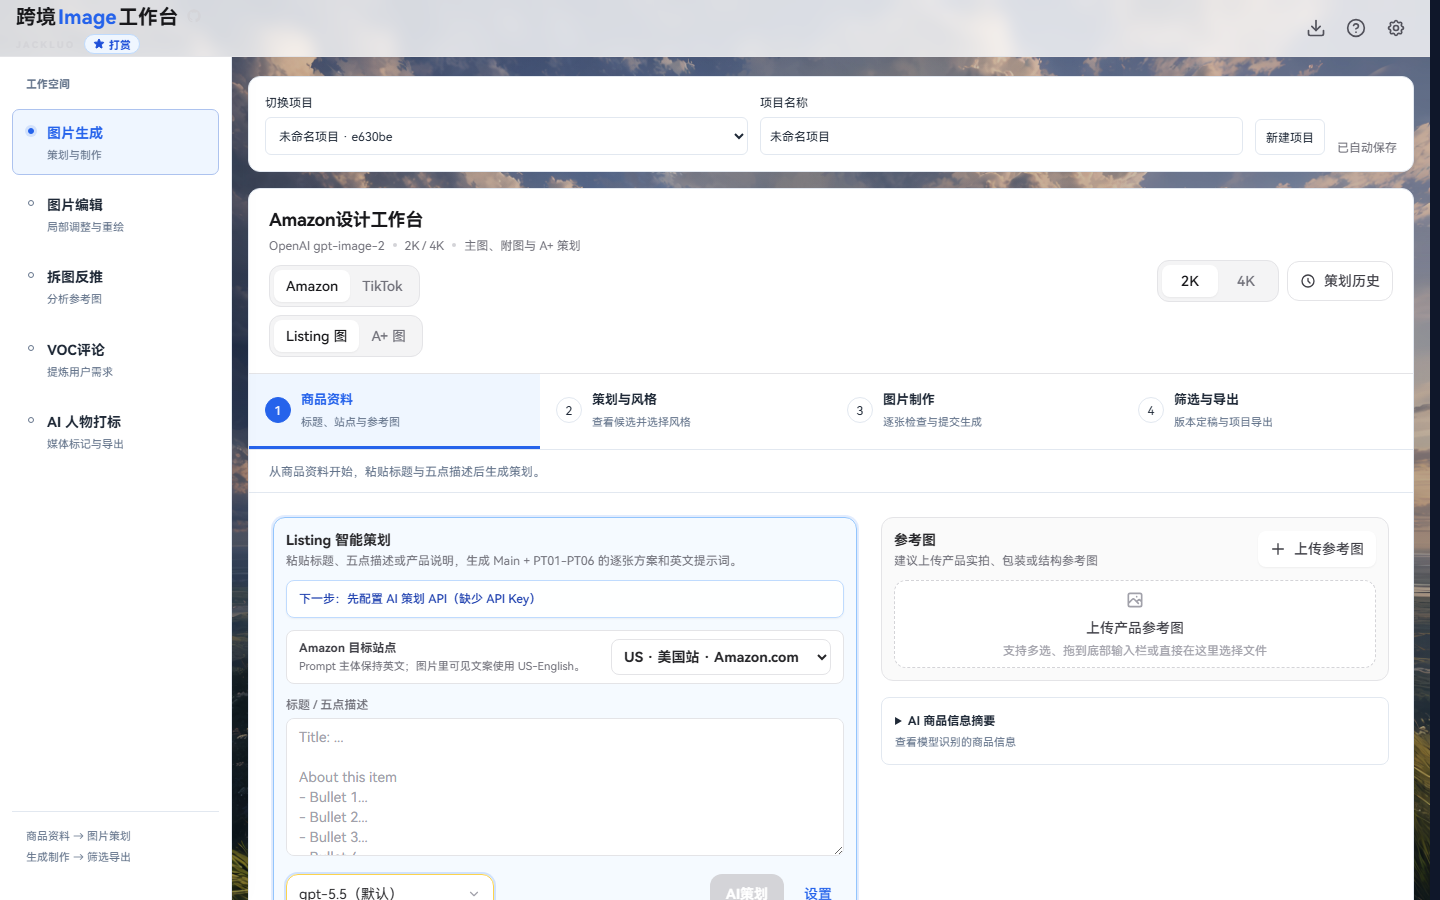
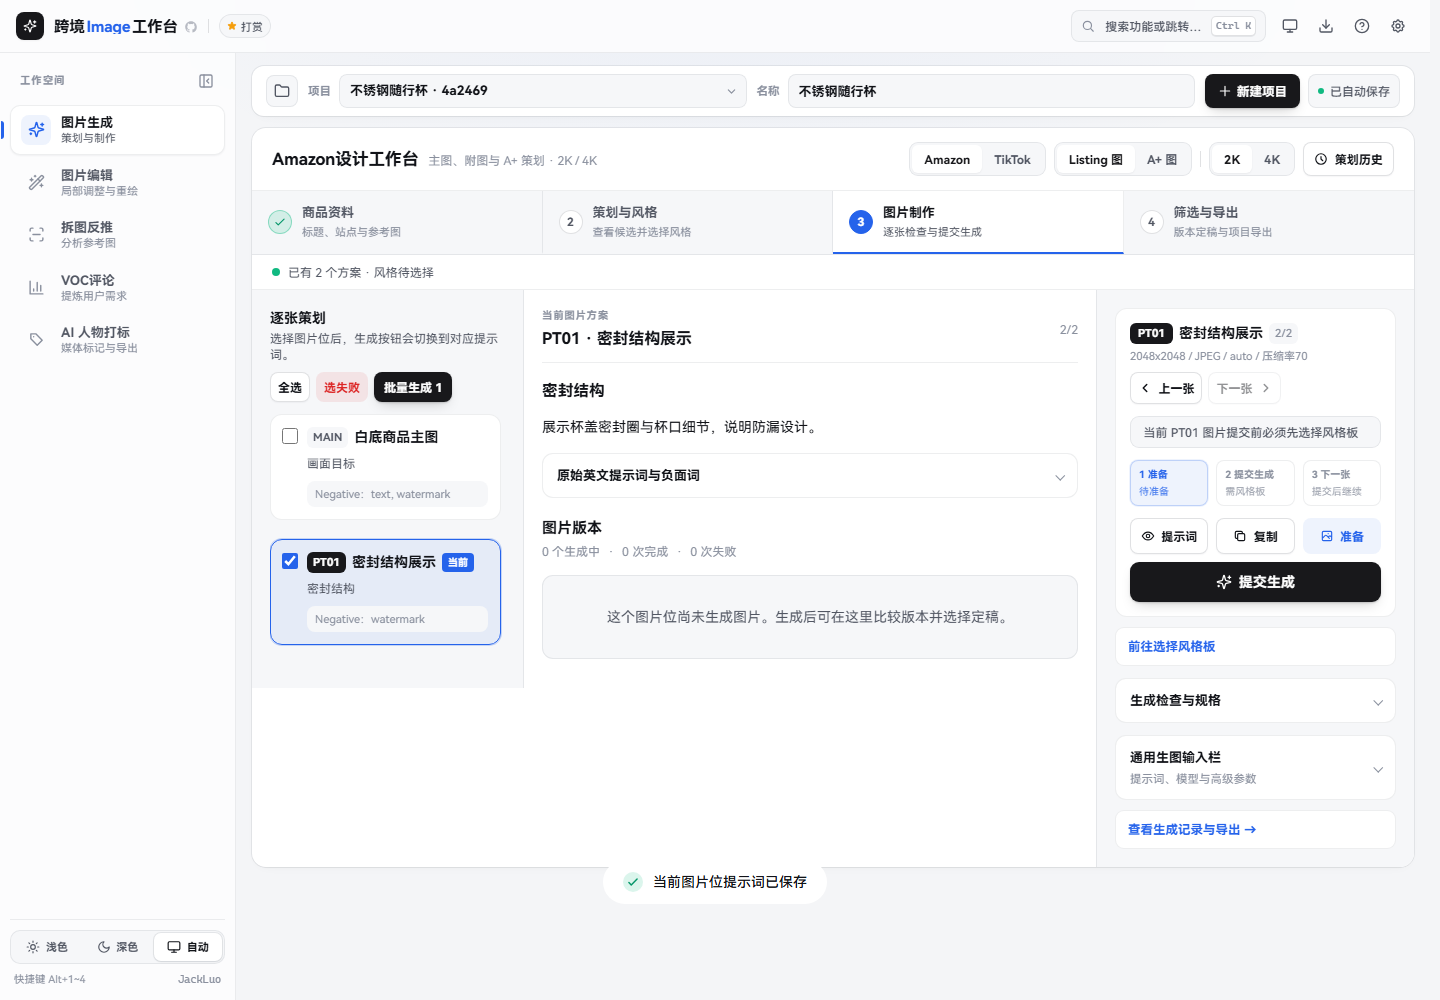
chore(release): 发布工作台 v2.0.2 并更新 README

diff --git a/README.md b/README.md
@@ -19,6 +19,8 @@
   ·
   <a href="https://github.com/china-luo/ImageStudioRemasteredVersion/releases/latest">下载 Windows 版</a>
   ·
+  <a href="https://github.com/china-luo/ImageStudioRemasteredVersion/actions/workflows/deploy-pages.yml">部署记录</a>
+  ·
   <a href="https://github.com/china-luo/ImageStudioRemasteredVersion/issues">提交 Issue</a>
 </p>
 
@@ -26,12 +28,20 @@
   <a href="https://github.com/china-luo/ImageStudioRemasteredVersion/actions/workflows/ci.yml"><img src="https://github.com/china-luo/ImageStudioRemasteredVersion/actions/workflows/ci.yml/badge.svg" alt="CI" /></a>
   <a href="https://github.com/china-luo/ImageStudioRemasteredVersion/releases/latest"><img src="https://img.shields.io/github/v/release/china-luo/ImageStudioRemasteredVersion?display_name=tag" alt="Latest release" /></a>
   <a href="./LICENSE"><img src="https://img.shields.io/github/license/china-luo/ImageStudioRemasteredVersion" alt="MIT License" /></a>
-  <img src="https://img.shields.io/badge/version-2.0.1-2563EB" alt="Version 2.0.1" />
+  <a href="https://github.com/china-luo/ImageStudioRemasteredVersion/actions/workflows/deploy-pages.yml"><img src="https://github.com/china-luo/ImageStudioRemasteredVersion/actions/workflows/deploy-pages.yml/badge.svg?branch=main" alt="GitHub Pages 部署" /></a>
   <img src="https://img.shields.io/badge/React-19-61DAFB?logo=react&logoColor=white" alt="React 19" />
   <img src="https://img.shields.io/badge/TypeScript-5-3178C6?logo=typescript&logoColor=white" alt="TypeScript 5" />
 </p>
 
-![跨境Image工作台 v2.0.1 工作台](./docs/images/workbench-overview.png)
+![跨境Image工作台：图片制作界面](./docs/images/workbench-overview.png)
+
+## v2.0.2 更新亮点
+
+- **更清晰的制作流程**：按「商品资料 → 策划与风格 → 图片制作 → 筛选与导出」推进，桌面与移动端均可使用；支持浅色、深色和跟随系统主题。
+- **快捷命令面板**：使用 `Ctrl+K`（macOS 为 `⌘K`）搜索功能；用 `Tab` 或方向键选择，按 `Enter` 执行。
+- **更稳的项目与生成恢复**：缺少参考图时仍可切换和保存项目，导入同一 ID 的图片后恢复引用；已取得远端 ID 的任务只续查，不重新提交生成。
+
+完整变化见 [更新日志](./CHANGELOG.md)。
 
 ## 这是什么
 
@@ -96,11 +106,13 @@
 
 从 [GitHub Releases](https://github.com/china-luo/ImageStudioRemasteredVersion/releases/latest) 下载最新 x64 安装包。桌面版通过 Electron 主进程使用受控网络通道，更适合日常生产、跨域受限接口和本地文件交付。
 
-当前最新版本：**v2.0.1**
+本次版本：[**v2.0.2**](https://github.com/china-luo/ImageStudioRemasteredVersion/releases/tag/v2.0.2)
 
 ### 静态部署
 
-仓库提供 GitHub Pages、Vercel Deploy Hook、Cloudflare Assets 和 Docker 构建配置。静态托管本身不提供通用上游 API 代理，部署后仍需要上游允许 CORS，或自行提供同源代理。
+推送到 `main` 后，[GitHub Pages 工作流](https://github.com/china-luo/ImageStudioRemasteredVersion/actions/workflows/deploy-pages.yml) 会运行测试、构建和部署。可在工作流运行记录查看进度，或在仓库首页右侧的 **Deployments** 栏查看 `github-pages` 环境。
+
+仓库也提供 Vercel Deploy Hook、Cloudflare Assets 和 Docker 构建配置。静态托管本身不提供通用上游 API 代理；上游接口需允许 CORS，或自行提供同源代理。
 
 ## API 配置
 
@@ -144,7 +156,7 @@
 
 ### 环境要求
 
-- Node.js 24 LTS 或更高版本（Windows 启动脚本、CI 与 Docker 构建统一使用 Node.js 24 基线）
+- Node.js 24 LTS 或更高版本（本地开发、CI 与 Docker 构建统一使用 Node.js 24 基线）
 - npm
 - Windows 安装包构建额外需要 NSIS 3 和 `rcedit.exe`
 
@@ -159,13 +171,7 @@ npm ci
 npm run dev
 ```
 
-打开 `http://127.0.0.1:5173/`。Windows 用户也可以运行：
-
-```text
-start-amazon-image-studio.bat
-```
-
-该脚本会检查依赖并启动本地服务。
+打开 `http://127.0.0.1:5173/`，或使用终端显示的实际地址与端口。Windows 用户执行相同的 `npm` 命令即可启动本地开发环境。
 
 ### 生产构建与预览
 

diff --git a/CHANGELOG.md b/CHANGELOG.md
@@ -1,6 +1,16 @@
 # 更新日志
 
 <details open>
+<summary><strong>2026-11-23</strong> - V2.0.2 工作台界面与数据恢复优化</summary>
+
+- 更新工作台布局和移动端导航，支持浅色、深色和跟随系统主题。
+- 新增快捷命令面板（`Ctrl+K` / `⌘K`）；修复 `Tab` 切换焦点后，按 `Enter` 可能执行错误命令的问题。
+- 项目缺少参考图时仍可切换和保存；导入同一 ID 的图片后可恢复引用。跨标签页清空数据后，旧页面不会把已删除的任务或图片写回。
+- 修复图片位重复提交和空选误触发批量生成的问题。恢复已取得远端任务 ID 的任务时只查询原任务，不重新提交。
+
+</details>
+
+<details open>
 <summary><strong>2026-09-23</strong> - V2.0.1 设置隔离与标签页恢复体验修复</summary>
 
 - 生图配置和 AI 策划配置按用途独立管理，模型、连接信息和配置指针互不覆盖。
